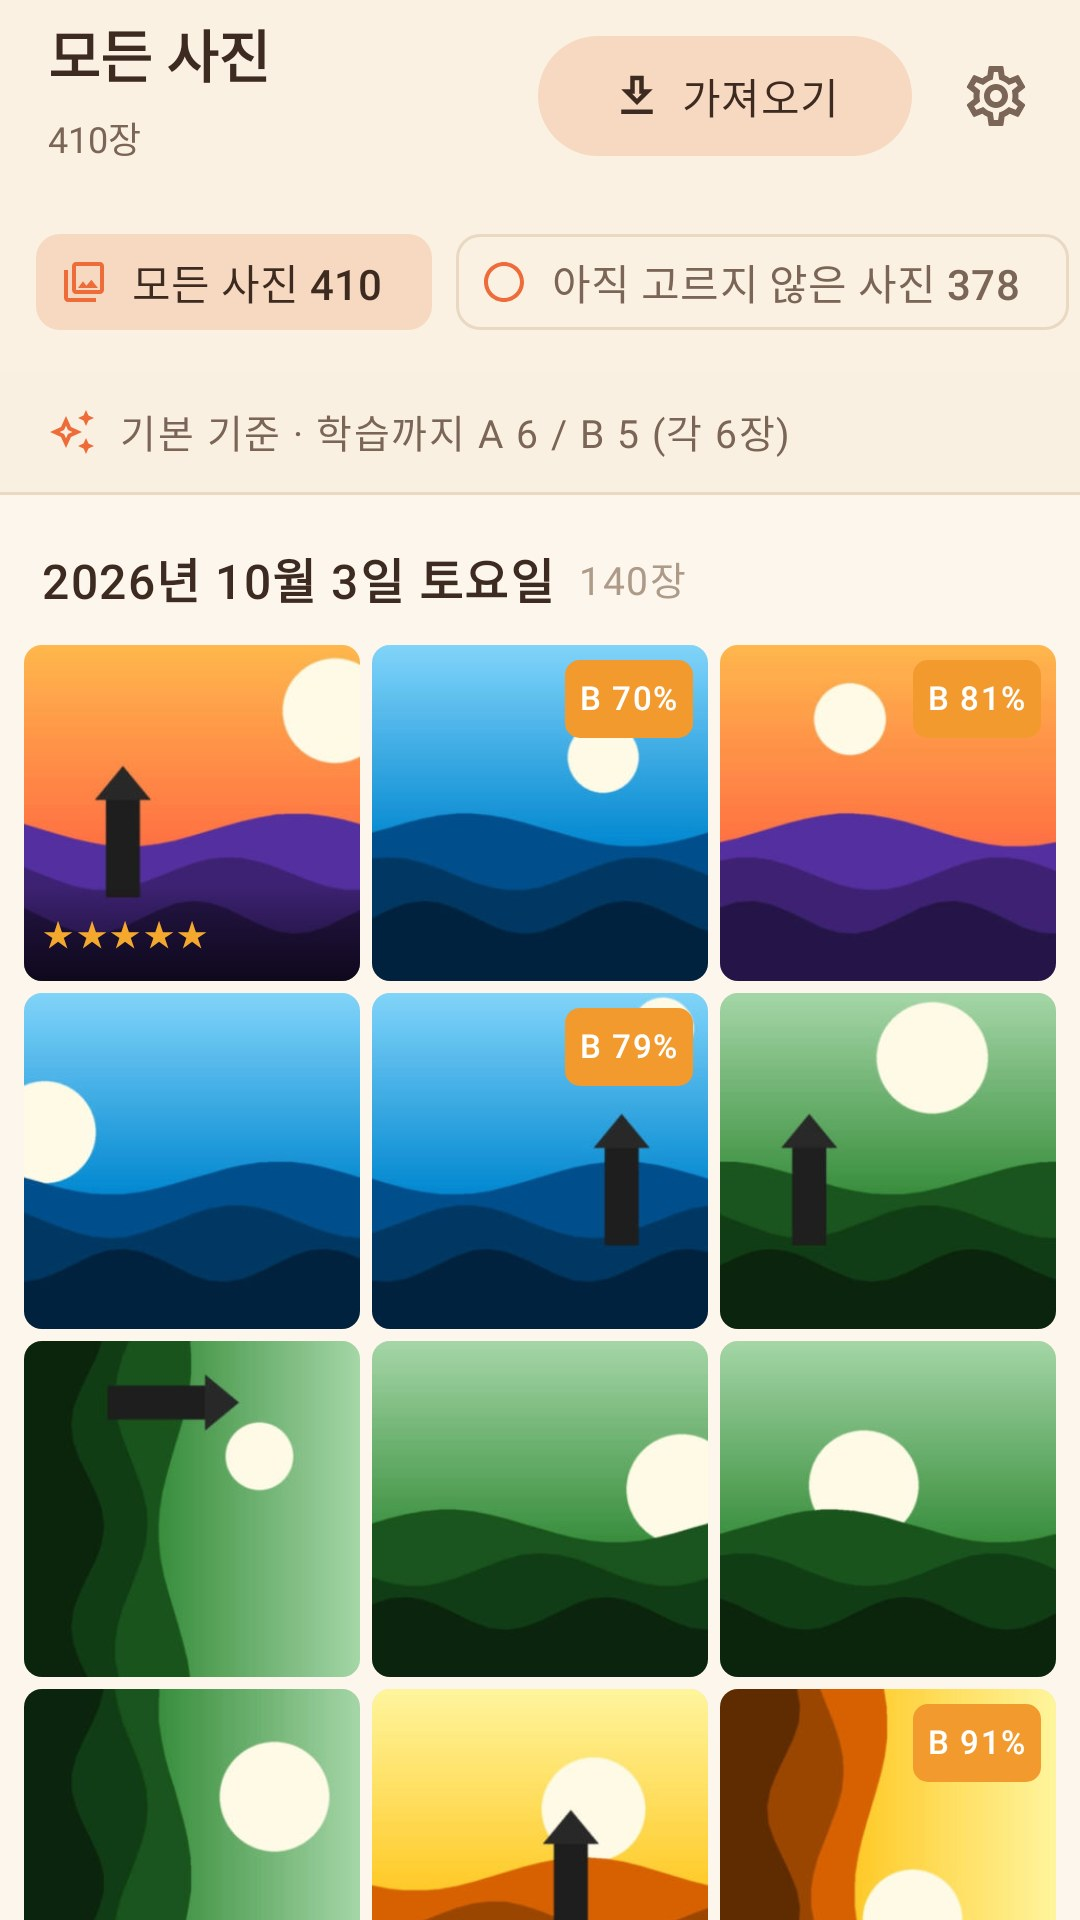
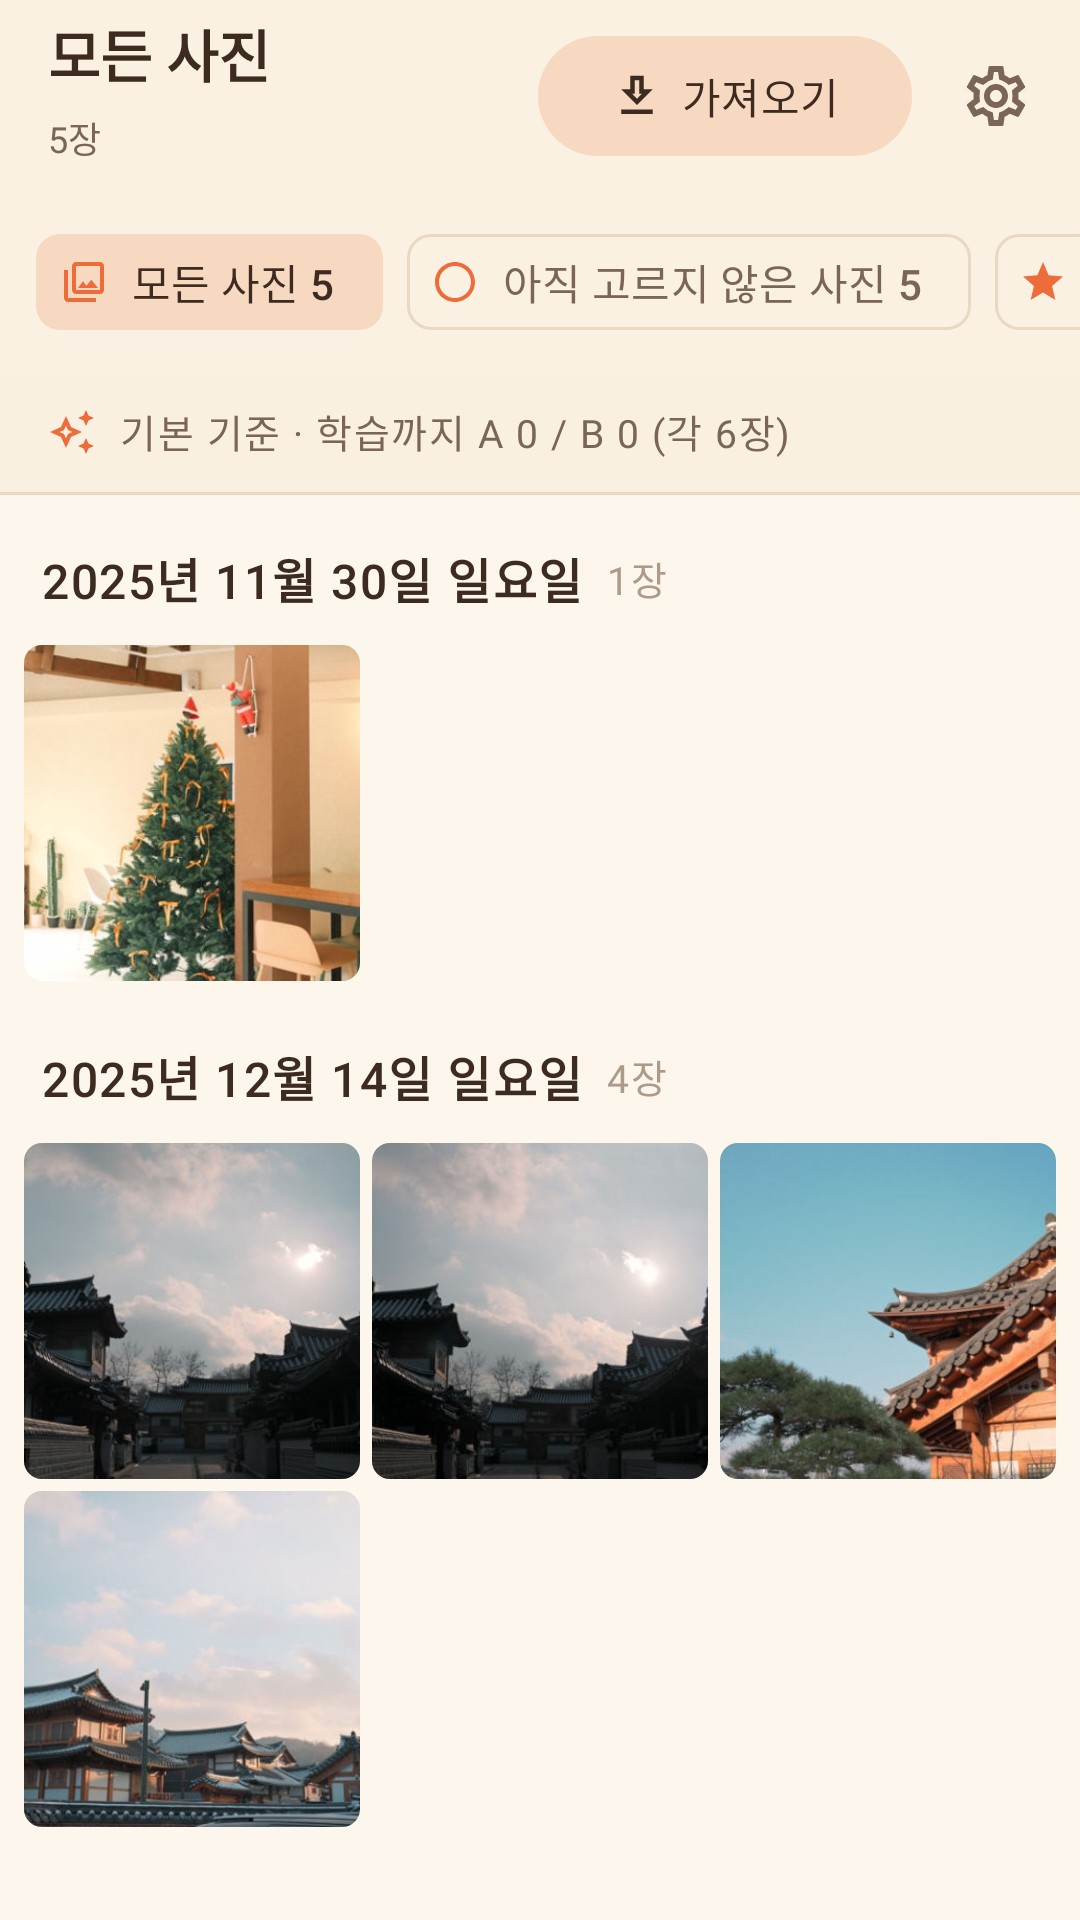
Play 스토어 스크린샷을 실제 사진(견본 카드) 화면으로 교체
휴대전화 4장 · 7인치 2장 · 10인치 3장. 견본 5장에 B컷 후보가 없어 두 번째 그림은 A컷 후보 화면.

Claude-Session: https://claude.ai/code/session_0149H7TVJL6yfoFn9LFLh676

diff --git a/docs/play-store/listing.md b/docs/play-store/listing.md
@@ -2,7 +2,10 @@
 
 그림은 `graphics/` 에 있습니다.
 
-- **스크린샷**은 실제 앱 화면을 엔진 그대로 그린 것입니다 — `android/app/src/test/…/ScreensTest.kt`, 데모 라이브러리로 `./gradlew :app:testDebugUnitTest -Pdemo=<라이브러리 폴더>`.
+- **스크린샷**은 실제 앱 화면을 엔진 그대로 그린 것입니다 — `android/app/src/test/…/ScreensTest.kt`.
+  - 지금 그림은 사용자 사진 5장의 견본 카드(`docs/screenshots/sample-card`)를 안드로이드 엔진으로 가져와 찍었습니다: `./gradlew :app:testDebugUnitTest --tests '*ScreensTest*' -Pcard=docs/screenshots/sample-card -Pphoto=DSC_2039` ([방법](../screenshots/README.md)).
+  - 데모 라이브러리로는 `-Pdemo=<라이브러리 폴더>`.
+  - 견본 5장에는 B컷 후보가 없어서 두 번째 그림은 *A컷 후보* 화면입니다 (`phone-2-keepers` · `tablet10-2-keepers`).
 - **앱 아이콘**은 `python3 scripts/make-icons.py`, **그래픽 이미지**는 `python3 scripts/make-store-images.py` 가 아이콘 원본(`crates/app/assets/icon-source.webp`)에서 만듭니다.
 
 | 항목 | 파일 |
